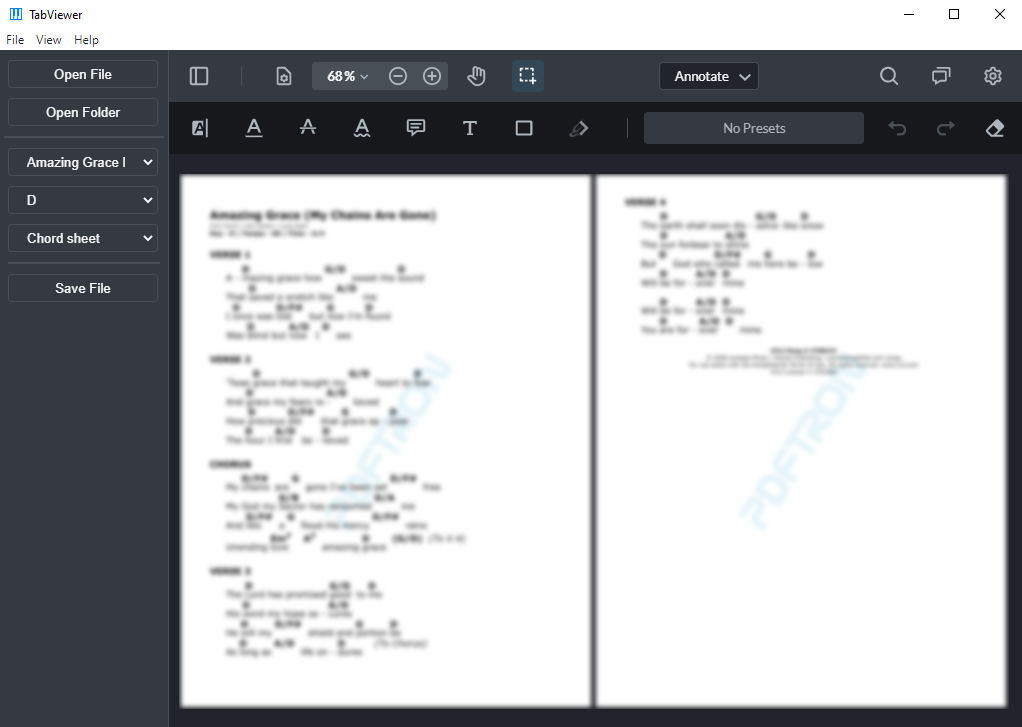
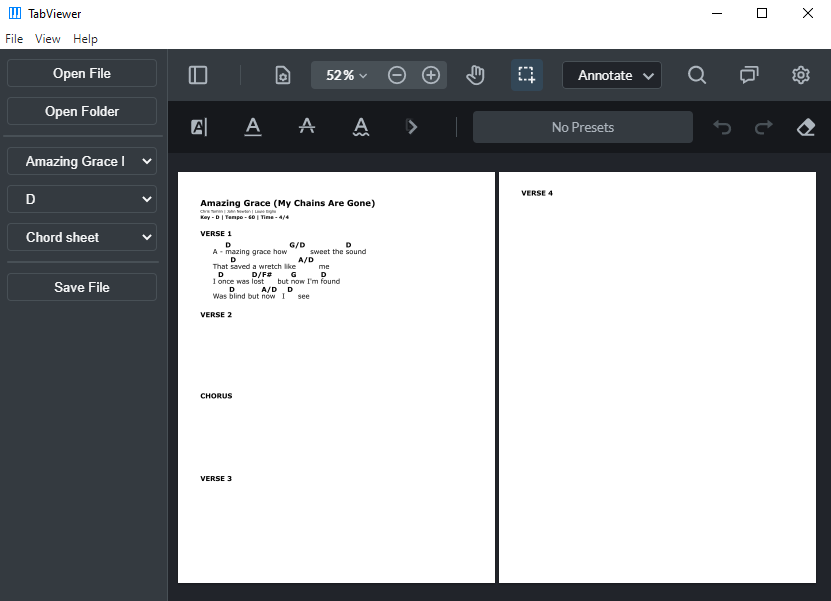
Update documentation

diff --git a/README.md b/README.md
@@ -4,17 +4,19 @@
 ![Electron version](https://img.shields.io/badge/electron-v13.5.1-blue)
 [![GitHub Release Date](https://img.shields.io/github/release-date/wrrnlim/electron-app-template)](https://github.com/wrrnlim/TabViewer/releases)
 ![Preview](./assets/img/preview.png)
-*Song sheet blurred for copyright reasons*
+*Song sheet partly removed for copyright reasons*
 
 Easily view and annotate your music tabs all in one place. TabViewer enables you to view music sheets and switch between songs, music keys, and lead sheet/chord sheet formats within a folder. Annotate your music with handwriting, text, or highlights, and export it as a PDF.
 
 ## Usage
+
 Currently, songs files must have the following naming convention:
 
 ```text
 song-name-A-cs.pdf
 ```
-where A is the key that the song is in, and cs is cs or ls, for chord sheet and lead sheet respectively.
+
+where A is the key that the song is in, and cs is cs or ls, for chord sheet and lead sheet respectively. Place all your song sheets into a folder, then open the folder in TabViewer. If you have a song in multiple keys and correctly followed the naming convention, you can change the key using the dropdown menus.
 
 ## Credits
 
